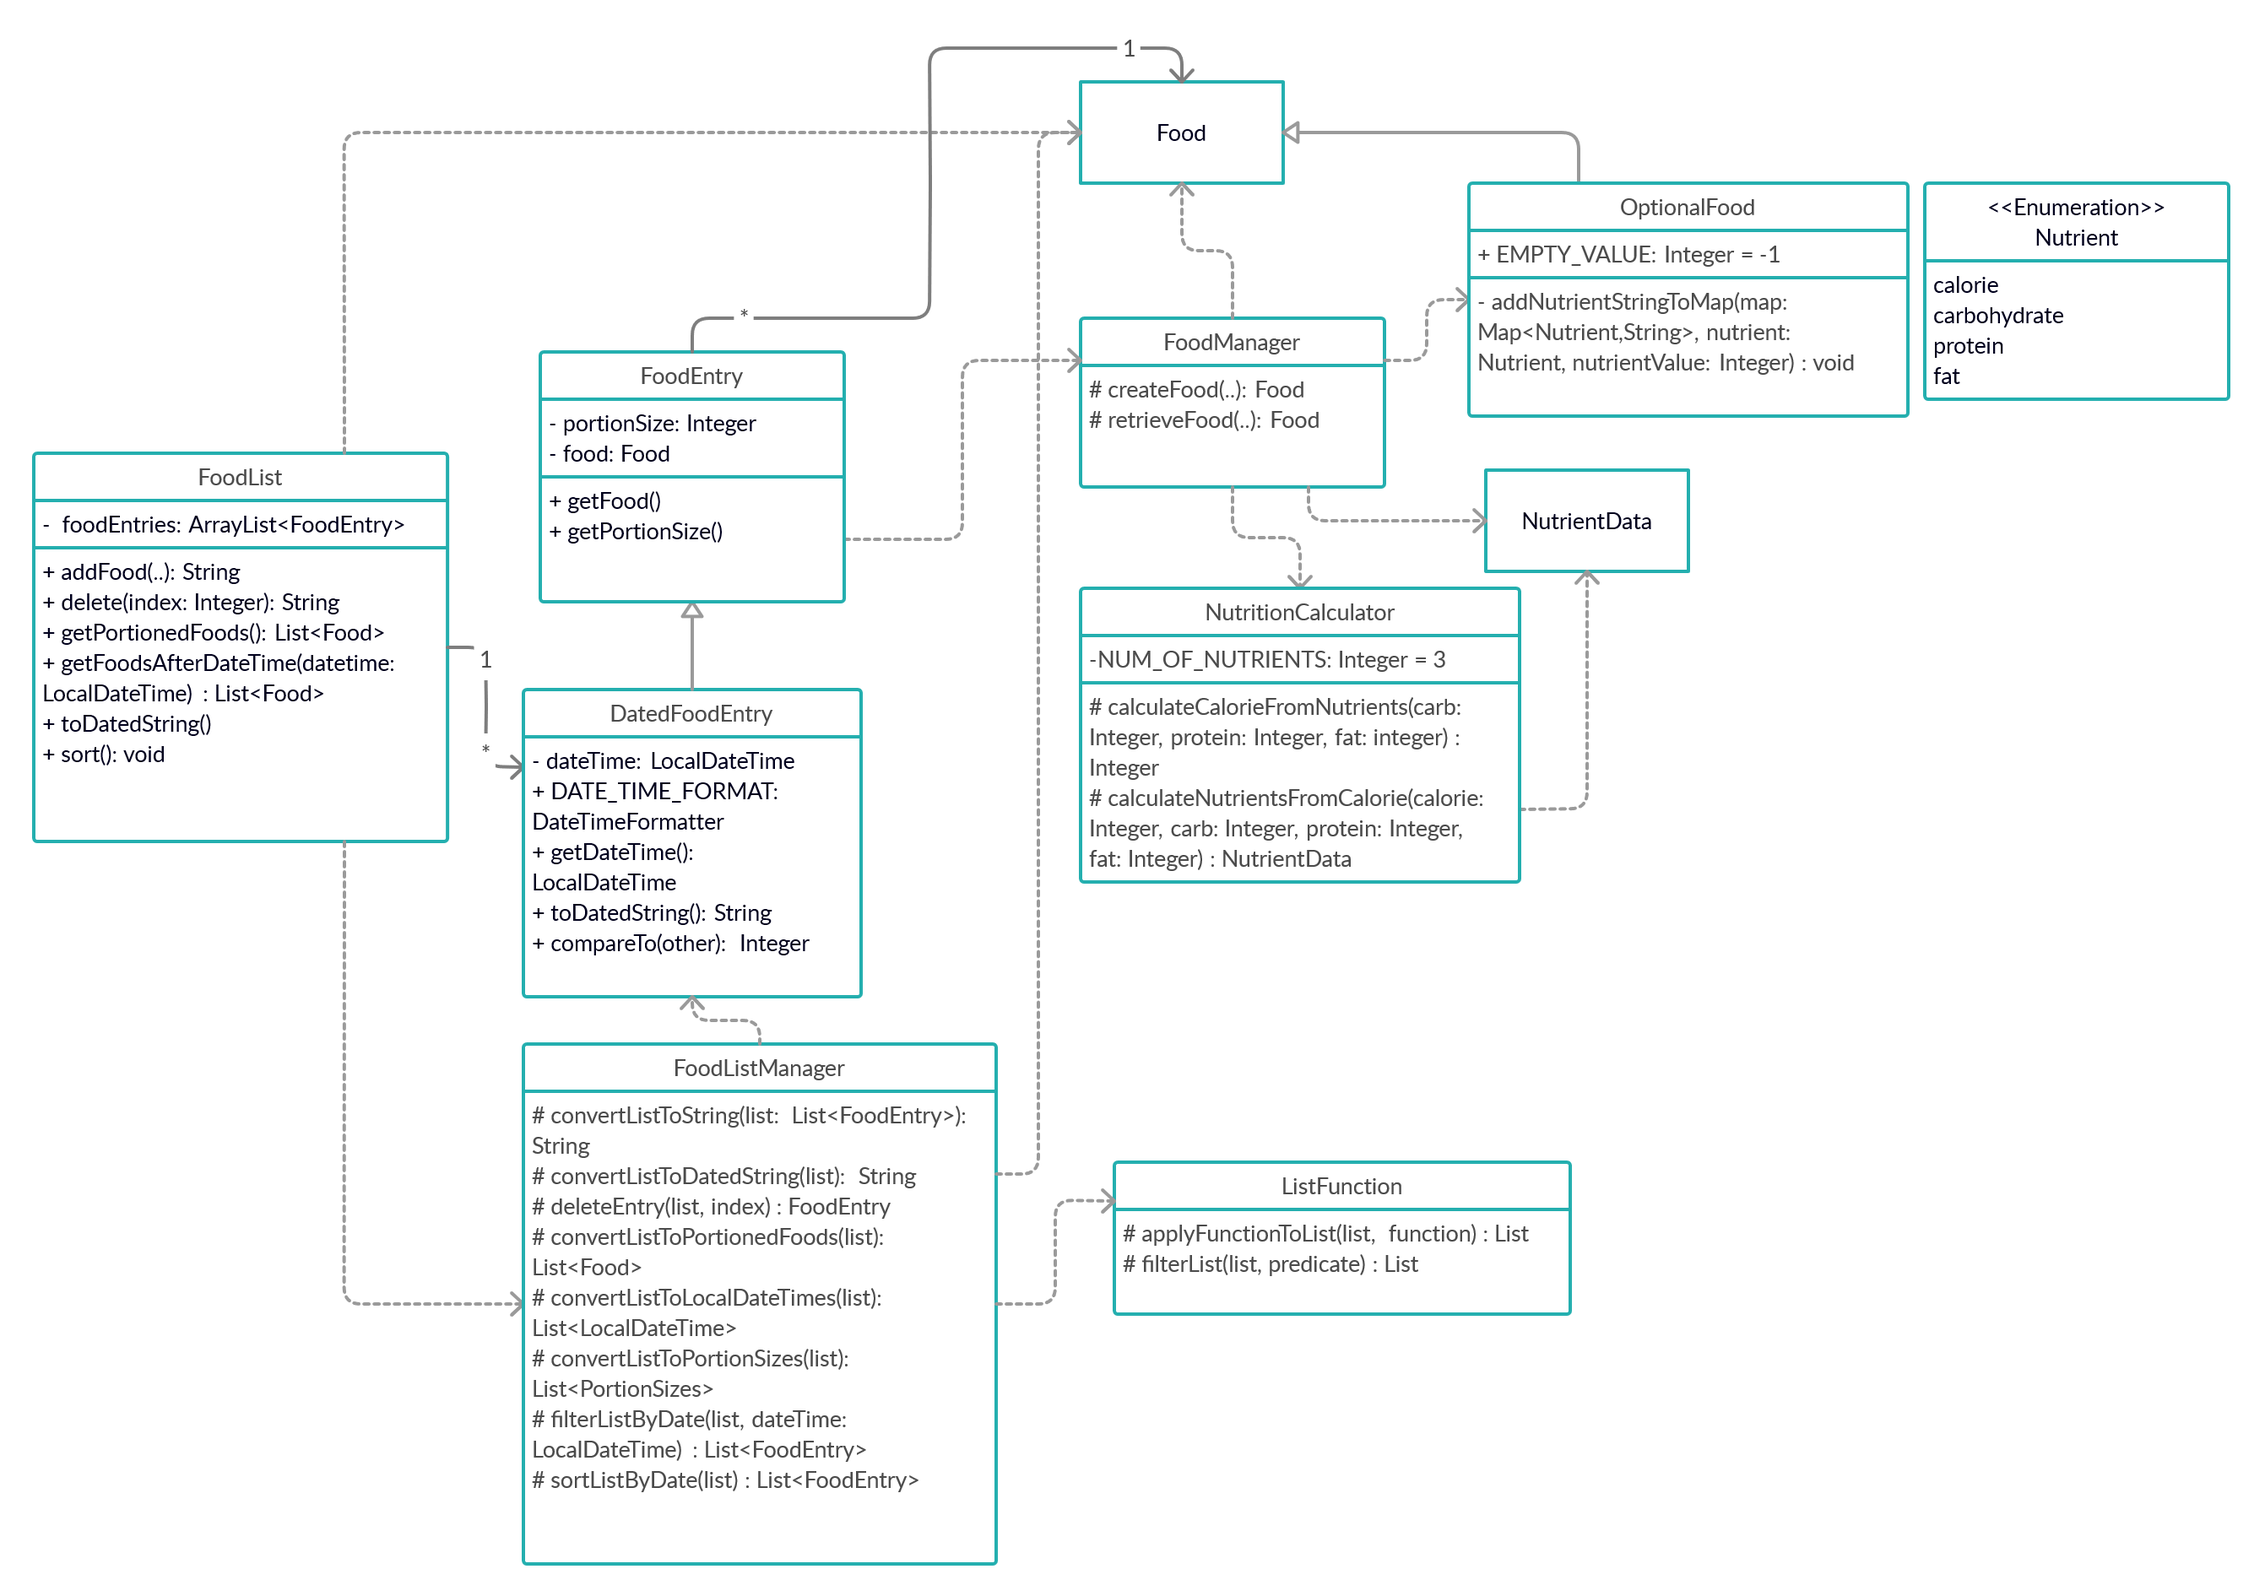
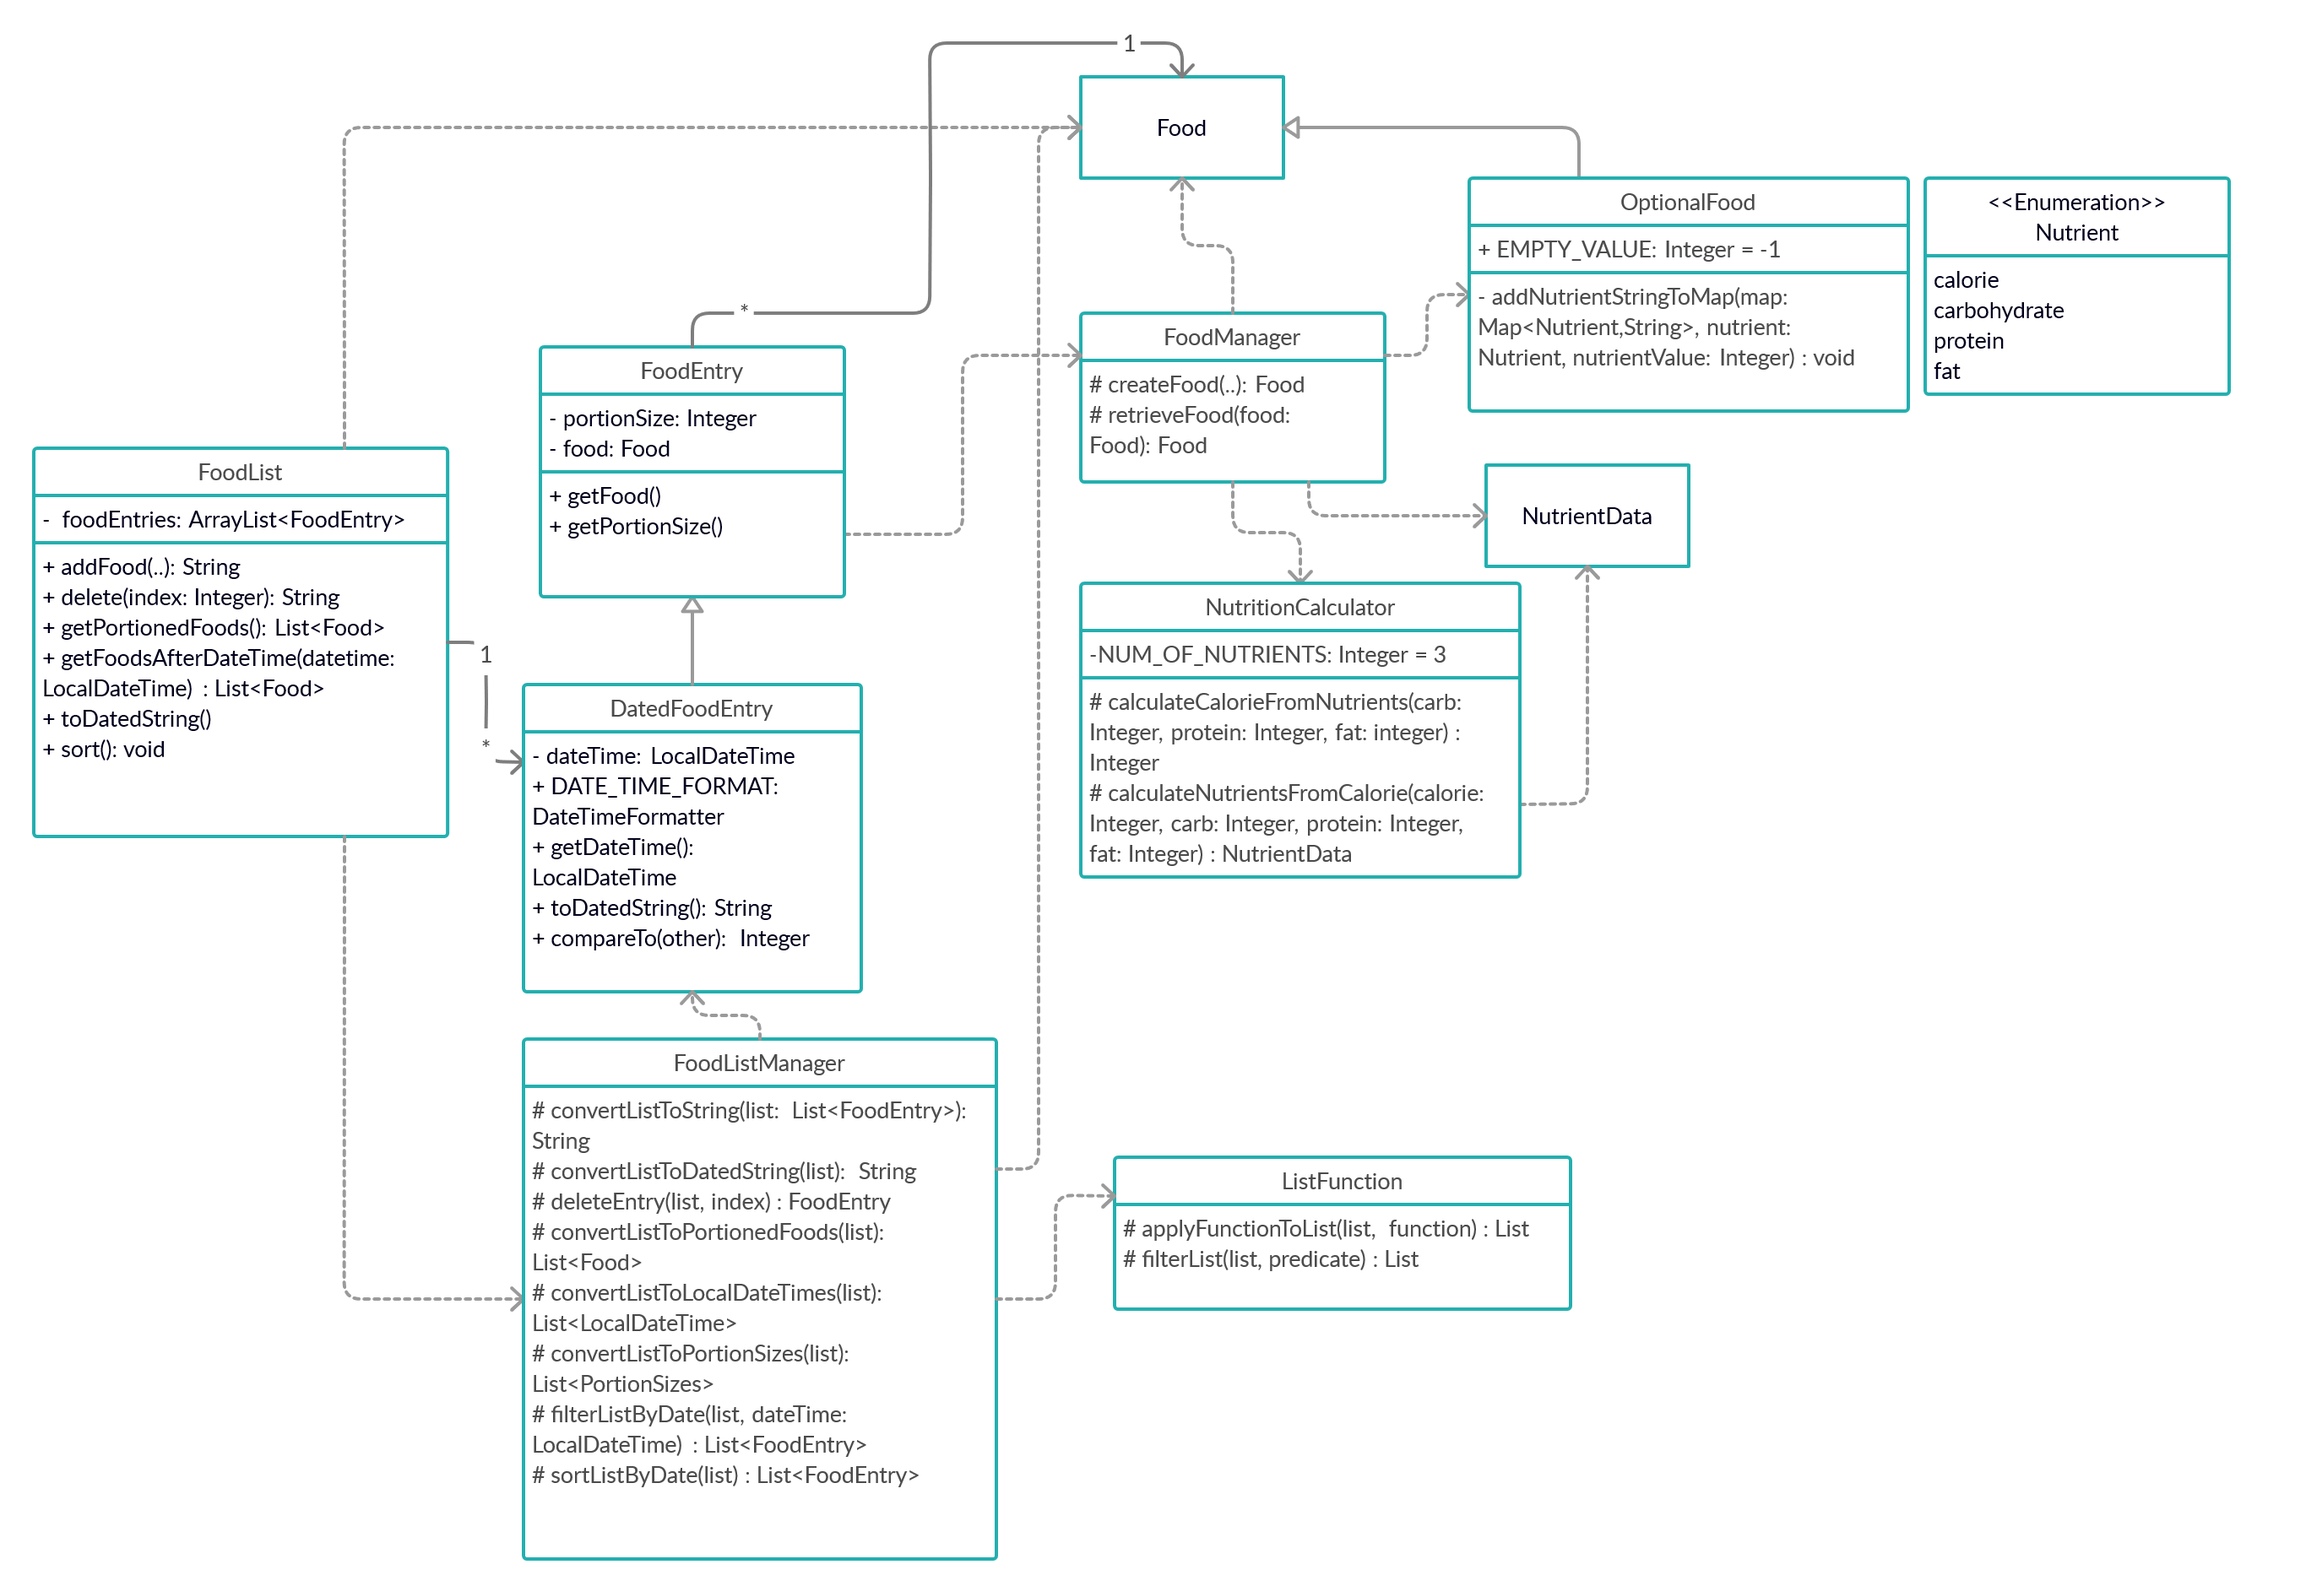
add details to model section

diff --git a/docs/DeveloperGuide.md b/docs/DeveloperGuide.md
@@ -29,10 +29,14 @@ Data of the user's diet is stored in the app's memory via the model: a `FoodList
 
 Additionally, it is not dependent on the other components listed. Instead, it is dependent on a common `Food` class, which is used by serval components, including the storage, database, and calculator.
 
+![Diagram of FoodList](diagrams/FoodList_Overall.png)
+
 <details>
     <summary>A more detailed class diagram is availble here</summary>
 
 ![Class diagram of FoodList](diagrams/FoodList_Overall_class.png)
+
+Some attributes and methods of the classes have been truncated for brevity. See the full details in the next subsections on `FoodListManager` and `FoodManager`.
 
 </details>
 
@@ -42,6 +46,7 @@ The above functions and the lack of dependency are met through the following mea
 * A `FoodListManager` is used to perform logical operations on the list of `FoodEntry` objects. A `FoodManager` is also used as a fascade that obscures calculations and prevents modification of `Food` data stored.
 * The result of an operation is typically a `String` that is meant to be supplied to the UI. In other data retrieval operations, such as those required by calculator, a list of `Food` objects is supplied as a means of data transfer between the components. Other lists of java data types such as `LocalDateTime` and `Integer` are also provided to the storage component.
 
+#### FoodListManager
 <details>
     <summary> Fascade pattern of `FoodListManager`</summary>
 
@@ -51,12 +56,20 @@ The above functions and the lack of dependency are met through the following mea
 
 It is only within `FoodListManager` that forced type conversions from `FoodEntry` to `DatedFoodEntry` are performed. Hence, only `FoodListManager` needs to be aware of the functions in `FoodEntry` and `DatedFoodEntry`.
 
+`FoodListManager` also reduces code repetition in `FoodList` by having generic list operations that can be combined to achieve the desired result (e.g. A method in `FoodList` may use `FoodListManager` for filtering followed by conversion to string. Yet another method in `FoodList` may use `FoodListManager` for its filtering function, scaling, and then conversion to string).
+
 </details>
+
+#### FoodManager
 
 <details>
     <summary> Fascade pattern of `FoodManager`</summary>
 
-`FoodManger` obscures the existence of the class `OptionalFood` from `FoodEntry`.
+![Class diagram of FoodManager](diagrams/FoodList_FoodManager_class.png)
+
+`FoodManger` obscures the existence of the class `OptionalFood` from `FoodEntry` and all classes dependent on `Food` from `FoodEntry`.
+It uses an obscured `NutrientCalculator` to handle the missing values from the user by providing a guesstimation/calculation of their value.
+The use of this fascade pattern, however, comes with downsides that will be further discussed in the implementation section.
 
 </details>
 
